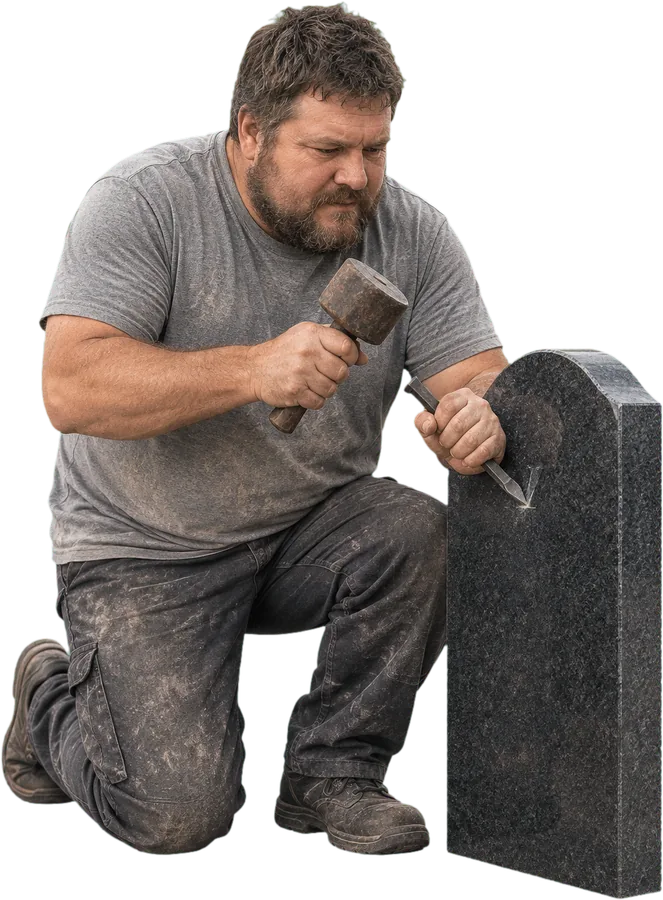
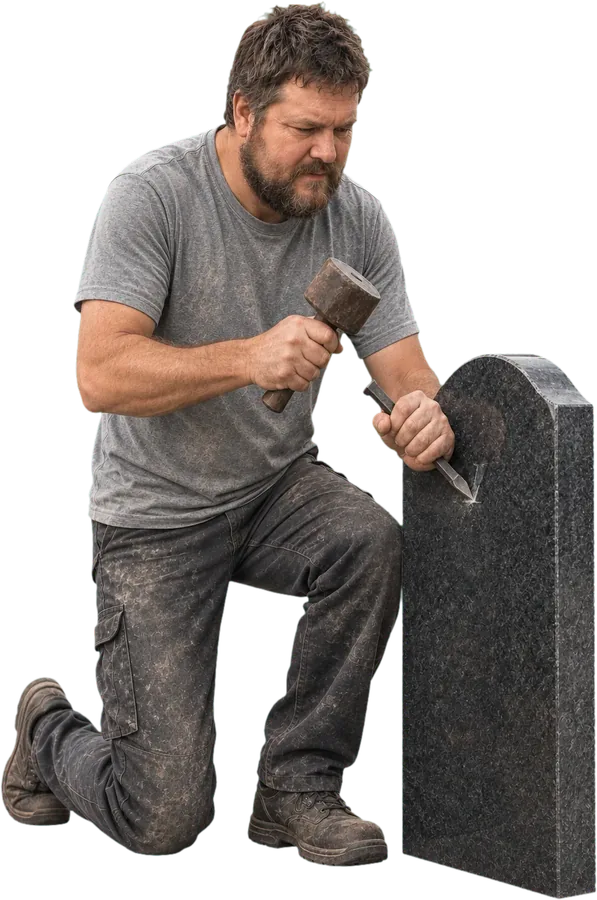
Sync z kamenictvi-web a56bae5

diff --git a/styl.css b/styl.css
@@ -514,6 +514,10 @@ html:has(body.snap) { scroll-snap-type: y mandatory; scroll-padding-top: 0; }
 
 /* Obce: slider pred/po (12. 10. 2026) — sdileny .ba, jen pomer 4:3 */
 .ba.ba--4x3 { aspect-ratio: 4 / 3; max-width: 980px; max-height: min(66vh, 735px); margin-bottom: 0; }
+.ba--auto img, .ba--auto .ba__cap { transition: opacity .45s ease; }
+.ba--auto.is-swap img, .ba--auto.is-swap .ba__cap { opacity: 0; }
+.ba--auto { background: #141414; }
+.ba__cap { position: absolute; left: 50%; bottom: 16px; transform: translateX(-50%); z-index: 2; font: 400 20px/1.1 var(--serif); color: #fff; background: rgba(20,16,10,.55); padding: 8px 16px; backdrop-filter: blur(4px); white-space: nowrap; pointer-events: none; }
 .ba-pary { display: grid; grid-template-columns: 1fr 1fr; gap: 16px; margin: 22px 0 24px; }
 .ba-pary figure { margin: 0; }
 .ba-pary figure > div { display: grid; grid-template-columns: 1fr 1fr; gap: 4px; }
@@ -521,38 +525,23 @@ html:has(body.snap) { scroll-snap-type: y mandatory; scroll-padding-top: 0; }
 .ba-pary figcaption { font-size: 13px; color: var(--mute); margin-top: 6px; }
 @media (max-width: 700px) { .ba-pary { grid-template-columns: 1fr; } }
 
-/* Stavby: pas referenci, budova se pri najeti vysune (12. 10. 2026) */
+/* Stavby: pas referenci; karta se pri najeti/tapnuti plynule rozevre a prolinaji se fotky z te stavby (AP 12. 10. 2026) */
 .stavby-refs { list-style: none; display: flex; gap: 14px; margin: 4px -24px 10px; padding: 22px 24px 24px; scroll-padding-left: 24px; overflow-x: auto; scroll-snap-type: x mandatory; }
-.stavby-refs li { position: relative; flex: 0 0 clamp(150px, 18vw, 220px); aspect-ratio: 4 / 3; scroll-snap-align: start; overflow: hidden; outline: none; transform: perspective(600px) rotateX(var(--rx, 0deg)) rotateY(var(--ry, 0deg)); transition: transform .35s cubic-bezier(.2,.8,.2,1.2), box-shadow .35s; z-index: 0; cursor: pointer; }
-.stavby-refs img { width: 100%; height: 100%; object-fit: cover; display: block; transition: transform .6s ease; }
-.stavby-refs span { position: absolute; left: 0; right: 0; bottom: 0; padding: 18px 8px 6px; font-size: 12px; line-height: 1.25; color: #fff; background: linear-gradient(transparent, rgba(0,0,0,.7)); z-index: 2; }
-.stavby-refs li:hover, .stavby-refs li:focus-visible, .stavby-refs li.is-on { transform: perspective(600px) rotateX(var(--rx, 0deg)) rotateY(var(--ry, 0deg)) scale(1.12) translateY(-4px); box-shadow: 0 18px 40px rgba(0,0,0,.55); z-index: 3; }
-.stavby-refs li.is-tilt { transition: transform .08s linear, box-shadow .35s; }
-.stavby-refs li:hover img, .stavby-refs li.is-on img { transform: scale(1.06); }
-/* Vtipne vizualizace pri najeti (12. 10. 2026): metro projede, opona, jerab spusti blok, zvonek, kamen po schodech */
-.stavby-refs .fx { position: absolute; inset: 0; pointer-events: none; z-index: 1; font-style: normal; }
-.stavby-refs .fx b { position: absolute; display: block; opacity: 0; }
-.fx-metro .fx b { left: 0; bottom: 30%; width: 75%; height: 17%; border-radius: 4px 40% 40% 4px / 4px 60% 60% 4px; background: repeating-linear-gradient(90deg, #f3c300 0 12%, #1d2b3a 12% 19%) top / 100% 55% no-repeat, #f3c300; box-shadow: -30px 0 0 -6px rgba(255,255,255,.35), -60px 0 0 -9px rgba(255,255,255,.2); }
-.fx-metro:hover .fx b, .fx-metro:focus-visible .fx b, .fx-metro.is-on .fx b { animation: fx-metro 1.3s cubic-bezier(.6,0,.4,1) forwards; }
-@keyframes fx-metro { 0% { opacity: 1; transform: translateX(-110%); } 100% { opacity: 1; transform: translateX(150%); } }
-.fx-opona .fx b { top: 0; bottom: 0; width: 52%; background: repeating-linear-gradient(90deg, #8c1420 0 9px, #b31f2c 9px 18px); box-shadow: inset 0 -10px 18px rgba(0,0,0,.4); }
-.fx-opona .fx b:first-child { left: 0; transform-origin: left; }
-.fx-opona .fx b:last-child { right: 0; transform-origin: right; }
-.fx-opona .fx::after { content: ""; position: absolute; inset: 0; background: radial-gradient(circle at 50% 38%, rgba(255,230,160,.55), transparent 45%); opacity: 0; }
-.fx-opona:hover .fx b, .fx-opona:focus-visible .fx b, .fx-opona.is-on .fx b { animation: fx-opona 1.4s ease forwards; }
-.fx-opona:hover .fx::after, .fx-opona:focus-visible .fx::after, .fx-opona.is-on .fx::after { animation: fx-reflektor 1.4s ease forwards; }
-@keyframes fx-opona { 0% { opacity: 1; transform: scaleX(1); } 35% { opacity: 1; transform: scaleX(1); } 100% { opacity: 1; transform: scaleX(.08); } }
-@keyframes fx-reflektor { 0%, 40% { opacity: 0; } 70% { opacity: 1; } 100% { opacity: .6; } }
-.fx-jerab .fx b { left: 38%; top: 0; width: 24%; height: 16%; background: linear-gradient(135deg, #e6dccb, #b8ab95); border-radius: 2px; box-shadow: 0 4px 8px rgba(0,0,0,.4); }
-.fx-jerab .fx b::before { content: ""; position: absolute; left: 50%; bottom: 100%; width: 2px; height: 300px; background: #222; transform: translateX(-50%); }
-.fx-jerab:hover .fx b, .fx-jerab:focus-visible .fx b, .fx-jerab.is-on .fx b { animation: fx-jerab 1.5s cubic-bezier(.3,0,.3,1) forwards; }
-@keyframes fx-jerab { 0% { opacity: 1; transform: translateY(-120%) rotate(-6deg); } 60% { opacity: 1; transform: translateY(260%) rotate(4deg); } 75% { transform: translateY(240%) rotate(-2deg); } 100% { opacity: 1; transform: translateY(255%) rotate(0); } }
-.fx-cink .fx b { left: 50%; top: 40%; padding: 4px 10px; border-radius: 99px; background: rgba(255,255,255,.92); color: #222; font-size: 14px; font-weight: 700; white-space: nowrap; transform: translate(-50%, -50%); }
-.fx-cink:hover .fx b, .fx-cink:focus-visible .fx b, .fx-cink.is-on .fx b { animation: fx-cink .9s cubic-bezier(.3,1.6,.5,1) forwards; }
-@keyframes fx-cink { 0% { opacity: 0; transform: translate(-50%, -50%) scale(.2) rotate(-20deg); } 40% { opacity: 1; transform: translate(-50%, -50%) scale(1.25) rotate(8deg); } 55% { transform: translate(-50%, -50%) scale(1) rotate(-6deg); } 70% { transform: translate(-50%, -50%) rotate(4deg); } 100% { opacity: 1; transform: translate(-50%, -50%) rotate(0); } }
-.fx-kulicka .fx b { left: 4%; top: 6%; width: 14%; aspect-ratio: 1; border-radius: 50%; background: radial-gradient(circle at 35% 35%, #f2eee6, #8d867a 70%); box-shadow: 0 3px 6px rgba(0,0,0,.5); }
-.fx-kulicka:hover .fx b, .fx-kulicka:focus-visible .fx b, .fx-kulicka.is-on .fx b { animation: fx-kulicka 1.6s linear forwards; }
-@keyframes fx-kulicka { 0% { opacity: 1; transform: translate(0, 0) rotate(0); } 15% { transform: translate(60%, -40%) rotate(90deg); } 25% { transform: translate(120%, 80%) rotate(180deg); } 40% { transform: translate(180%, 40%) rotate(270deg); } 50% { transform: translate(240%, 160%) rotate(360deg); } 65% { transform: translate(300%, 120%) rotate(450deg); } 75% { transform: translate(360%, 240%) rotate(540deg); } 90% { transform: translate(420%, 210%) rotate(600deg); } 100% { opacity: 1; transform: translate(480%, 300%) rotate(680deg); } }
+.stavby-refs li { position: relative; flex: 0 0 clamp(150px, 18vw, 220px); aspect-ratio: auto; height: clamp(112px, 13.5vw, 165px); scroll-snap-align: start; overflow: hidden; outline: none; background: #141414; transform: perspective(700px) rotateX(var(--rx, 0deg)) rotateY(var(--ry, 0deg)); transition: flex-basis .7s cubic-bezier(.22,.8,.24,1), transform .35s ease, box-shadow .5s; z-index: 0; cursor: pointer; }
+.stavby-refs img { position: absolute; inset: 0; width: 100%; height: 100%; object-fit: cover; display: block; transition: opacity 1.1s ease, transform 1.2s ease, filter .6s; }
+.stavby-refs img.g { opacity: 0; }
+.stavby-refs img.is-bylo { opacity: 1; z-index: 1; }
+.stavby-refs img.is-vidim { opacity: 1; z-index: 2; animation: stavby-kb 5.5s ease-out forwards; }
+@keyframes stavby-kb { from { transform: scale(1.02) translate(0, 0); } to { transform: scale(1.14) translate(-2%, -1.5%); } }
+.stavby-refs li:not(.is-on):not(:hover):not(:focus-visible) img { filter: saturate(.85) brightness(.92); }
+.stavby-refs span { position: absolute; left: 0; right: 0; bottom: 0; padding: 22px 10px 8px; font-size: 12px; line-height: 1.25; color: #fff; background: linear-gradient(transparent, rgba(0,0,0,.72)); z-index: 3; transition: font-size .5s, padding .5s; }
+.stavby-refs li:hover, .stavby-refs li:focus-visible, .stavby-refs li.is-on { flex-basis: clamp(260px, 34vw, 420px); box-shadow: 0 18px 40px rgba(0,0,0,.5); z-index: 3; }
+.stavby-refs li:hover span, .stavby-refs li:focus-visible span, .stavby-refs li.is-on span { font-size: 15px; padding: 28px 14px 10px; }
+.stavby-refs li.is-tilt { transition: flex-basis .7s cubic-bezier(.22,.8,.24,1), transform .08s linear, box-shadow .5s; }
+.stavby-refs .tecky { position: absolute; top: 10px; right: 10px; z-index: 3; display: flex; gap: 5px; opacity: 0; transition: opacity .4s; }
+.stavby-refs .tecky i { width: 6px; height: 6px; border-radius: 50%; background: rgba(255,255,255,.45); transition: background .4s, transform .4s; }
+.stavby-refs .tecky i.is-vidim { background: #fff; transform: scale(1.3); }
+.stavby-refs li:hover .tecky, .stavby-refs li:focus-visible .tecky, .stavby-refs li.is-on .tecky { opacity: 1; }
 /* efekty karet spousti sam navstevnik najetim, proto bezi i pri vypnutych animacich ve Windows (AP 12. 10.) */
 /* Postava kamenika pri scrollu (postava.js, 12. 10. 2026) */
 .postava { position: fixed; right: max(16px, 3vw); bottom: 0; height: calc(min(64vh, 580px) * var(--vyska, 1)); aspect-ratio: var(--pomer, .6); z-index: 40; pointer-events: none; visibility: hidden; }

diff --git a/skript.js b/skript.js
@@ -314,6 +314,52 @@
     range.addEventListener('input', function () { stopped = true; ba.classList.remove('ba--anim'); set(range.value); });
     range.addEventListener('pointerdown', function () { stopped = true; });
 
+    // Pamatniky: jezdec se sam pomalu prevaluje a dvojice se stridaji (AP 12. 10.) -
+    // bezi i pri vypnutych animacich ve Windows; pauza tlacitkem (WCAG 2.2.2), saha-li navstevnik, chvili pocka
+    if (ba.dataset.pary) {
+      var pary = JSON.parse(ba.dataset.pary), idx = 0, pauza = false, ruka = 0, videt = false, t0 = null;
+      var pred = ba.querySelector('.ba__before'), po = ba.querySelector('.ba__after'), cap = ba.querySelector('.ba__cap');
+      pary.forEach(function (p) { [p[0], p[1]].forEach(function (s) { var i = new Image(); i.src = s; }); });
+      var ovl = document.createElement('div'); ovl.className = 'ba-btns';
+      var tecky = pary.map(function (p, i) {
+        var el = document.createElement('button'); el.type = 'button'; el.textContent = p[2];
+        el.setAttribute('aria-pressed', i ? 'false' : 'true');
+        el.addEventListener('click', function () { ruka = performance.now(); ukaz(i); });
+        ovl.appendChild(el); return el;
+      });
+      var pb = document.createElement('button'); pb.type = 'button'; pb.textContent = 'Zastavit';
+      pb.addEventListener('click', function () { pauza = !pauza; pb.textContent = pauza ? 'Spustit' : 'Zastavit'; t0 = null; });
+      ovl.appendChild(pb);
+      ba.parentNode.insertBefore(ovl, ba.nextSibling);
+      var ukaz = function (i) {
+        if (i === idx) return;
+        ba.classList.add('is-swap');
+        setTimeout(function () {
+          idx = i; pred.src = pary[i][0]; po.src = pary[i][1]; cap.textContent = pary[i][2];
+          pred.alt = pary[i][2] + ' před obnovou'; po.alt = pary[i][2] + ' po obnově';
+          tecky.forEach(function (t, j) { t.setAttribute('aria-pressed', j === i ? 'true' : 'false'); });
+          ba.classList.remove('is-swap'); t0 = null;
+        }, 450);
+      };
+      var perioda = 7000, kol = 2;
+      var tik = function (ts) {
+        requestAnimationFrame(tik);
+        if (pauza || !videt || ba.classList.contains('is-swap') || ts - ruka < 6000) { t0 = null; return; }
+        if (t0 === null) t0 = ts; // sin(0) = jezdec uprostred, navazuje plynule
+        var p = (ts - t0) / perioda;
+        if (p >= kol) { ukaz((idx + 1) % pary.length); return; }
+        var v = 50 - 38 * Math.sin(p * 2 * Math.PI);
+        set(v); range.value = v;
+      };
+      range.addEventListener('input', function () { ruka = performance.now(); });
+      range.addEventListener('pointerdown', function () { ruka = performance.now(); });
+      if ('IntersectionObserver' in window) {
+        new IntersectionObserver(function (en) { videt = en[0].isIntersecting; }, { threshold: 0.3 }).observe(ba);
+      } else videt = true;
+      requestAnimationFrame(tik);
+      return;
+    }
+
     // Tlačítka „jen před / půl / jen po" — na mobilu se jezdcem hůř trefuje.
     var btns = document.createElement('div');
     btns.className = 'ba-btns';
@@ -409,13 +455,36 @@
     li.addEventListener("click",function(){var on=li.classList.contains("is-on");document.querySelectorAll(".stavby-refs li.is-on").forEach(function(x){x.classList.remove("is-on");});if(!on)li.classList.add("is-on");});
   });
 })();
-/* Stavby: karta se nakloni za mysi (12. 10. 2026) */
+/* Stavby: pri najeti/fokusu/tapnuti se prolinaji 4-5 fotek z te stavby (AP 12. 10. 2026) */
+(function(){
+  document.querySelectorAll(".stavby-refs li").forEach(function(li){
+    var obal = li.querySelector("img"), seznam = [obal], tecky = null, i = 0, casovac = null, nacteno = false;
+    var g = li.dataset.g ? JSON.parse(li.dataset.g) : [];
+    function nacti(){
+      if (nacteno) return; nacteno = true;
+      g.forEach(function(src){ var im = document.createElement("img"); im.className = "g"; im.alt = ""; im.decoding = "async"; im.src = src; li.insertBefore(im, li.querySelector("span")); seznam.push(im); });
+      if (seznam.length > 1) { tecky = document.createElement("div"); tecky.className = "tecky"; tecky.setAttribute("aria-hidden", "true"); seznam.forEach(function(){ tecky.appendChild(document.createElement("i")); }); li.appendChild(tecky); }
+    }
+    function ukaz(n){
+      seznam.forEach(function(im, k){ im.classList.remove("is-bylo"); if (k === i && k !== n) im.classList.add("is-bylo"); im.classList.toggle("is-vidim", k === n); });
+      if (tecky) [].forEach.call(tecky.children, function(t, k){ t.classList.toggle("is-vidim", k === n); });
+      i = n;
+    }
+    function start(){ nacti(); if (casovac) return; seznam[0].style.animation = "none"; void seznam[0].offsetWidth; seznam[0].style.animation = ""; i = 0; ukaz(0); if (seznam.length > 1) casovac = setInterval(function(){ ukaz((i + 1) % seznam.length); }, 2600); }
+    function stop(){ clearInterval(casovac); casovac = null; seznam.forEach(function(im){ im.classList.remove("is-vidim", "is-bylo"); }); if (tecky) [].forEach.call(tecky.children, function(t){ t.classList.remove("is-vidim"); }); i = 0; }
+    li.addEventListener("mouseenter", start); li.addEventListener("focus", start);
+    li.addEventListener("mouseleave", function(){ if (!li.classList.contains("is-on")) stop(); });
+    li.addEventListener("blur", function(){ if (!li.matches(":hover") && !li.classList.contains("is-on")) stop(); });
+    new MutationObserver(function(){ if (li.classList.contains("is-on")) start(); else if (!li.matches(":hover")) stop(); }).observe(li, { attributes: true, attributeFilter: ["class"] });
+  });
+})();
+/* Stavby: karta se jemne nakloni za mysi (12. 10. 2026) */
 (function(){
   if (!window.matchMedia("(hover: hover)").matches) return;
   document.querySelectorAll(".stavby-refs li").forEach(function(li){
     li.addEventListener("mousemove", function(e){
       var r = li.getBoundingClientRect(), x = (e.clientX - r.left) / r.width - .5, y = (e.clientY - r.top) / r.height - .5;
-      li.classList.add("is-tilt"); li.style.setProperty("--ry", (x * 18).toFixed(1) + "deg"); li.style.setProperty("--rx", (-y * 14).toFixed(1) + "deg");
+      li.classList.add("is-tilt"); li.style.setProperty("--ry", (x * 8).toFixed(1) + "deg"); li.style.setProperty("--rx", (-y * 6).toFixed(1) + "deg");
     });
     li.addEventListener("mouseleave", function(){ li.classList.remove("is-tilt"); li.style.removeProperty("--rx"); li.style.removeProperty("--ry"); });
   });

diff --git a/index.html b/index.html
@@ -51,7 +51,7 @@
   <link rel="preconnect" href="https://fonts.googleapis.com">
   <link rel="preconnect" href="https://fonts.gstatic.com" crossorigin>
   <link href="https://fonts.googleapis.com/css2?family=Instrument+Serif:ital@0;1&family=Manrope:wght@400;500;600;700&display=swap" rel="stylesheet">
-  <link rel="stylesheet" href="/styl.css?v=1012h">
+  <link rel="stylesheet" href="/styl.css?v=1012i">
 </head>
 <body class="snap">
 
@@ -128,7 +128,7 @@
     <p class="label">03 — Stavební činnost</p>
     <h2>Kámen ve velkých stavbách</h2>
     <p>Schodiště s drážkami, dlažby, chodníky, obklady a kamenné zdivo. Pro hotely, divadla, školy i veřejný prostor.</p>
-    <ul class="stavby-refs"><li class="fx-metro" tabindex="0"><img src="/obrazky/Rekonstrukce-metro-eskomoravsk-800.webp" alt="Stanice metra Českomoravská" loading="lazy" width="800" height="600"><i class="fx" aria-hidden="true"><b></b></i><span>Stanice metra Českomoravská</span></li><li class="fx-opona" tabindex="0"><img src="/obrazky/realizace-divadlo-spirala-800.webp" alt="Divadlo Nová Spirála" loading="lazy" width="800" height="600"><i class="fx" aria-hidden="true"><b></b><b></b></i><span>Divadlo Nová Spirála</span></li><li class="fx-jerab" tabindex="0"><img src="/obrazky/realizace-nr7-namesti-republiky-800.webp" alt="NR7" loading="lazy" width="800" height="600"><i class="fx" aria-hidden="true"><b></b></i><span>NR7</span></li><li class="fx-cink" tabindex="0"><img src="/obrazky/realizace-andaz-praha-800.webp" alt="Hotel Andaz" loading="lazy" width="800" height="600"><i class="fx" aria-hidden="true"><b>🛎 cink!</b></i><span>Hotel Andaz</span></li><li class="fx-kulicka" tabindex="0"><img src="/obrazky/realizace-allure-schodiste-800.webp" alt="Schodiště" loading="lazy" width="800" height="600"><i class="fx" aria-hidden="true"><b></b></i><span>Schodiště</span></li></ul>
+    <ul class="stavby-refs"><li tabindex="0"><img src="/obrazky/Rekonstrukce-metro-eskomoravsk-800.webp" alt="Stanice metra Českomoravská" loading="lazy" width="800" height="600"><span>Stanice metra Českomoravská</span></li><li tabindex="0" data-g='["/obrazky/realizace-divadlo-spirala-800.webp", "/obrazky/realizace-divadlo-spirala-dlazba-800.webp", "/obrazky/stavby-g-spirala-1.webp", "/obrazky/stavby-g-spirala-2.webp"]'><img src="/obrazky/stavby-spirala-cervanky-900.webp" alt="Divadlo Nová Spirála" loading="lazy" width="800" height="600"><span>Divadlo Nová Spirála</span></li><li tabindex="0" data-g='["/obrazky/stavby-g-nr7-1.webp", "/obrazky/stavby-g-nr7-2.webp", "/obrazky/stavby-g-nr7-3.webp"]'><img src="/obrazky/realizace-nr7-namesti-republiky-800.webp" alt="NR7" loading="lazy" width="800" height="600"><span>NR7</span></li><li tabindex="0" data-g='["/obrazky/stavby-g-andaz-1.webp", "/obrazky/stavby-g-andaz-2.webp", "/obrazky/stavby-g-andaz-3.webp", "/obrazky/stavby-g-andaz-4.webp"]'><img src="/obrazky/realizace-andaz-praha-800.webp" alt="Hotel Andaz" loading="lazy" width="800" height="600"><span>Hotel Andaz</span></li><li tabindex="0" data-g='["/obrazky/stavby-g-allure-1.webp", "/obrazky/realizace-allure-koupelna-800.webp", "/obrazky/stavby-g-allure-2.webp", "/obrazky/realizace-allure-praha-800.webp"]'><img src="/obrazky/realizace-allure-schodiste-800.webp" alt="Allure Hotel Prague" loading="lazy" width="800" height="600"><span>Allure Hotel Prague</span></li><li tabindex="0" data-g='["/obrazky/stavby-g-plana-2.webp", "/obrazky/stavby-g-plana-3.webp", "/obrazky/stavby-g-plana-4.webp"]'><img src="/obrazky/stavby-g-plana-1.webp" alt="Škola Horní Planá" loading="lazy" width="800" height="600"><span>Škola Horní Planá</span></li></ul>
     <div class="hero__actions"><a class="btn btn--gold" href="/sluzby/stavebni-cinnost/">Stavební činnost</a></div>
   </div>
 </section>
@@ -140,16 +140,13 @@
       <h2>Obnova válečných památníků a pamětních desek</h2>
       <p>Čištění, opravy a nové části z kamene. Žádost o dotaci vám sepíšeme <strong>zdarma</strong>.</p>
     </div>
-    <div class="ba ba--4x3">
-      <img class="ba__before" src="/obrazky/pamatnik-promena-pred.webp" alt="Památník před obnovou" loading="lazy" width="1400" height="1050">
-      <img class="ba__after" src="/obrazky/pamatnik-promena-po.webp" alt="Památník po obnově" loading="lazy" width="1400" height="1050">
+    <div class="ba ba--4x3 ba--auto" data-pary='[["/obrazky/pamatnik-promena-pred-s.webp","/obrazky/pamatnik-promena-po-s.webp","Válečný památník"],["/obrazky/pamatnik-kriz-pred-s.webp","/obrazky/pamatnik-kriz-po-s.webp","Pískovcový kříž"]]'>
+      <img class="ba__before" src="/obrazky/pamatnik-promena-pred-s.webp" alt="Památník před obnovou" loading="lazy" width="1400" height="1050">
+      <img class="ba__after" src="/obrazky/pamatnik-promena-po-s.webp" alt="Památník po obnově" loading="lazy" width="1400" height="1050">
       <span class="ba__label ba__label--pred">Před</span><span class="ba__label ba__label--po">Po</span>
+      <span class="ba__cap">Válečný památník</span>
       <div class="ba__handle"></div>
       <input type="range" min="0" max="100" value="50" aria-label="Porovnání památníku před a po obnově">
-    </div>
-    <div class="ba-pary">
-      <figure><div><img src="/obrazky/pamatnik-schody-pred.webp" alt="Rozjeté schody památníku" loading="lazy" width="800" height="600"><img src="/obrazky/pamatnik-schody-po.webp" alt="Schody po opravě" loading="lazy" width="800" height="600"></div><figcaption>Schody památníku — před a po opravě</figcaption></figure>
-      <figure><div><img src="/obrazky/pamatnik-kriz-pred.webp" alt="Kříž před obnovou" loading="lazy" width="800" height="600"><img src="/obrazky/pamatnik-kriz-po.webp" alt="Kříž po obnově" loading="lazy" width="800" height="600"></div><figcaption>Pískovcový kříž — před a po obnově</figcaption></figure>
     </div>
     <div class="hero__actions"><a class="btn btn--gold" href="/sluzby/pro-obce/">Pro obce</a></div>
   </div>
@@ -272,7 +269,7 @@
 
 <div class="mbar" aria-label="Rychlý kontakt"><a class="mbar__call" href="tel:+420602108793">Zavolat</a><a class="mbar__form" href="/#kontakt">Poptávka</a></div>
 
-<script src="/skript.js?v=1012h"></script>
-<script src="/postava.js?v=1012h" defer></script>
+<script src="/skript.js?v=1012i"></script>
+<script src="/postava.js?v=1012i" defer></script>
 </body>
 </html>

diff --git a/postava.js b/postava.js
@@ -2,10 +2,10 @@
    Postava vyskoci z obrazovky nahoru a spadne zpet uz v nove podobe; u staveb pred ni spadne helma. */
 (function(){
   var POSTAVY = {
-    nahrobky: { src: "/obrazky/postava-hroby.webp", w: 663, h: 900, vyska: 0.8 },
-    interier: { src: "/obrazky/postava-interier.webp", w: 514, h: 900 },
-    stavby: { src: "/obrazky/postava-stavby.webp", w: 532, h: 900, flip: true, helma: { x: 0.21, y: 0.03 } },
-    obce: { src: "/obrazky/postava-obce.webp", w: 489, h: 900 }
+    nahrobky: { src: "/obrazky/postava-hroby.webp", w: 597, h: 900, vyska: 0.8 },
+    interier: { src: "/obrazky/postava-interier.webp", w: 425, h: 900 },
+    stavby: { src: "/obrazky/postava-stavby.webp", w: 454, h: 900, flip: true, helma: { x: 0.21, y: 0.03 } },
+    obce: { src: "/obrazky/postava-obce.webp", w: 409, h: 900 }
   };
   var ids = Object.keys(POSTAVY).filter(function(id){ return document.getElementById(id); });
   if (!ids.length || !("IntersectionObserver" in window)) return;
